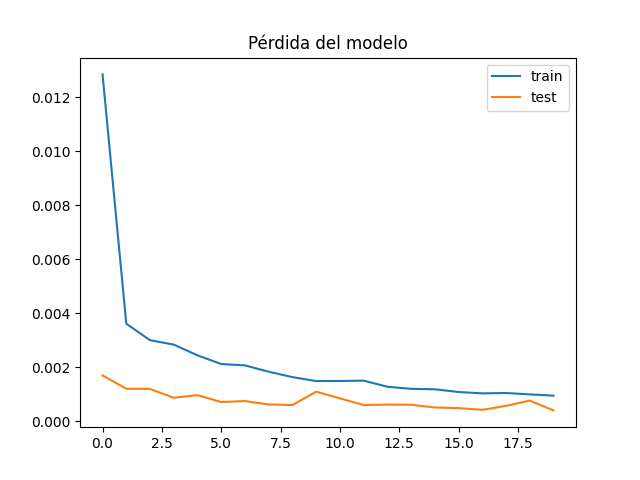
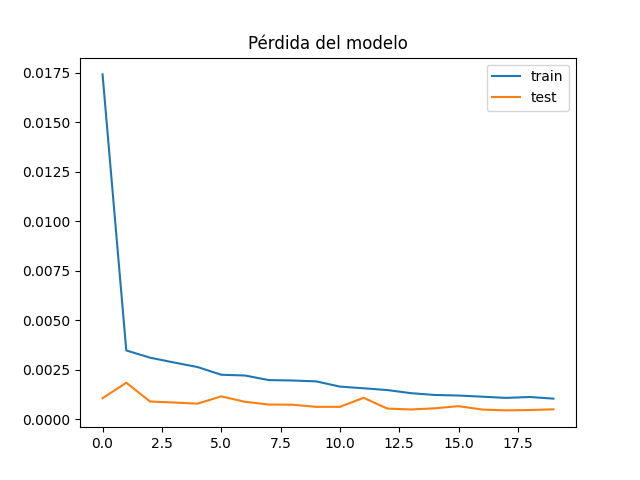
bbb

diff --git a/lstm1.py b/lstm1.py
@@ -18,13 +18,7 @@ train_data_len = int(np.ceil(len(scaled_data) * .8))
 train_data = scaled_data[0:train_data_len,:]
 val_data = scaled_data[train_data_len-60:,:]
 
-''''
-Error cuadrático medio: 121.7012923207298
-Error absoluto medio: 97.40514243521342
-Error absoluto porcentual medio: 1.0379286622469546
 
-
-'''
 
 
 #dividir los datos en conjuntos de entrenamiento y prueba
@@ -105,7 +99,7 @@ print('Error cuadrático medio:', rmse)
 mae = np.mean(np.abs(predictions - y_val_unscaled))
 print('Error absoluto medio:', mae)
 
-mape = np.mean(np.abs(predictions - y_val_unscaled) / np.abs(y_val_unscaled)) * 100
+mape = np.mean(np.abs(predictions - y_val_unscaled) / np.abs(y_val_unscaled)) 
 print('Error absoluto porcentual medio:', mape)
 
 # Crear el DataFrame de validación con los valores reales y predicciones
@@ -124,6 +118,7 @@ plt.title('Modelo LSTM con Intervalo de Confianza')
 plt.xlabel('Fecha')
 plt.ylabel('Cierre')
 plt.legend()
+plt.savefig('imgs/prediccion_lstm_con_intervalo_confianza.png')
 plt.show()
 
 

diff --git a/lstm_no_pandemia.py b/lstm_no_pandemia.py
@@ -15,7 +15,7 @@ scaled_data = scaler.fit_transform(data)
 
 
 # Dividir en entrenamiento y prueba (80% para entrenamiento)
-train_data_len = int(np.ceil(len(scaled_data) * .8))
+train_data_len = int(np.ceil(len(data) * .8))
 train_data = data[0:train_data_len,:]
 val_data = data[train_data_len-60:,:]
 
@@ -58,7 +58,7 @@ model.compile(optimizer='adam', loss='mean_squared_error')
 
 
 # Entrenar el modelo
-history = model.fit(x_train, y_train, epochs=20, batch_size=32, validation_data=(x_val, y_val))
+history = model.fit(x_train, y_train, epochs=23, batch_size=32, validation_data=(x_val, y_val))
 
 # Graficar la pérdida
 plt.plot(history.history['loss'], label='train')
